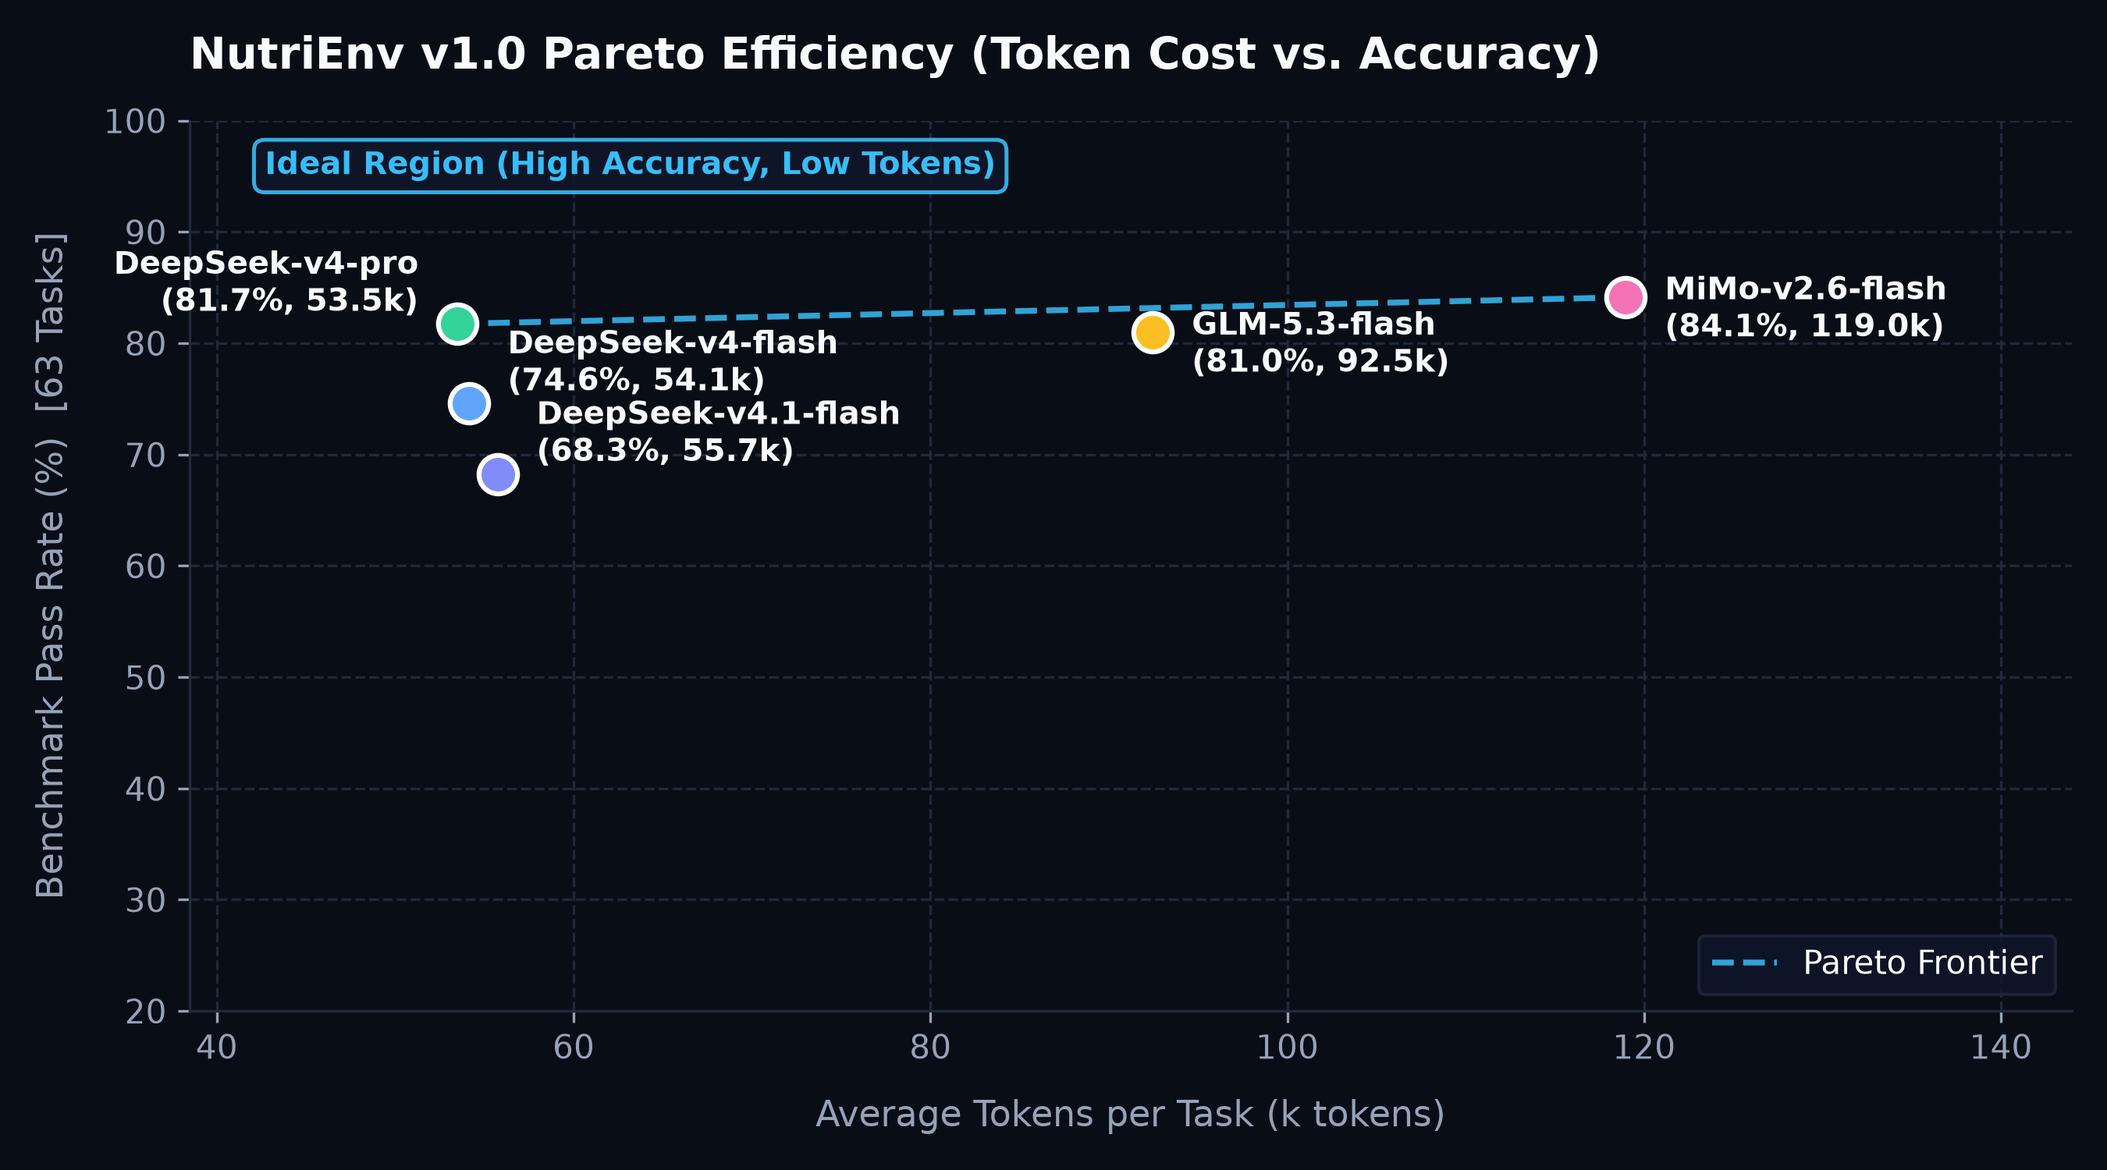
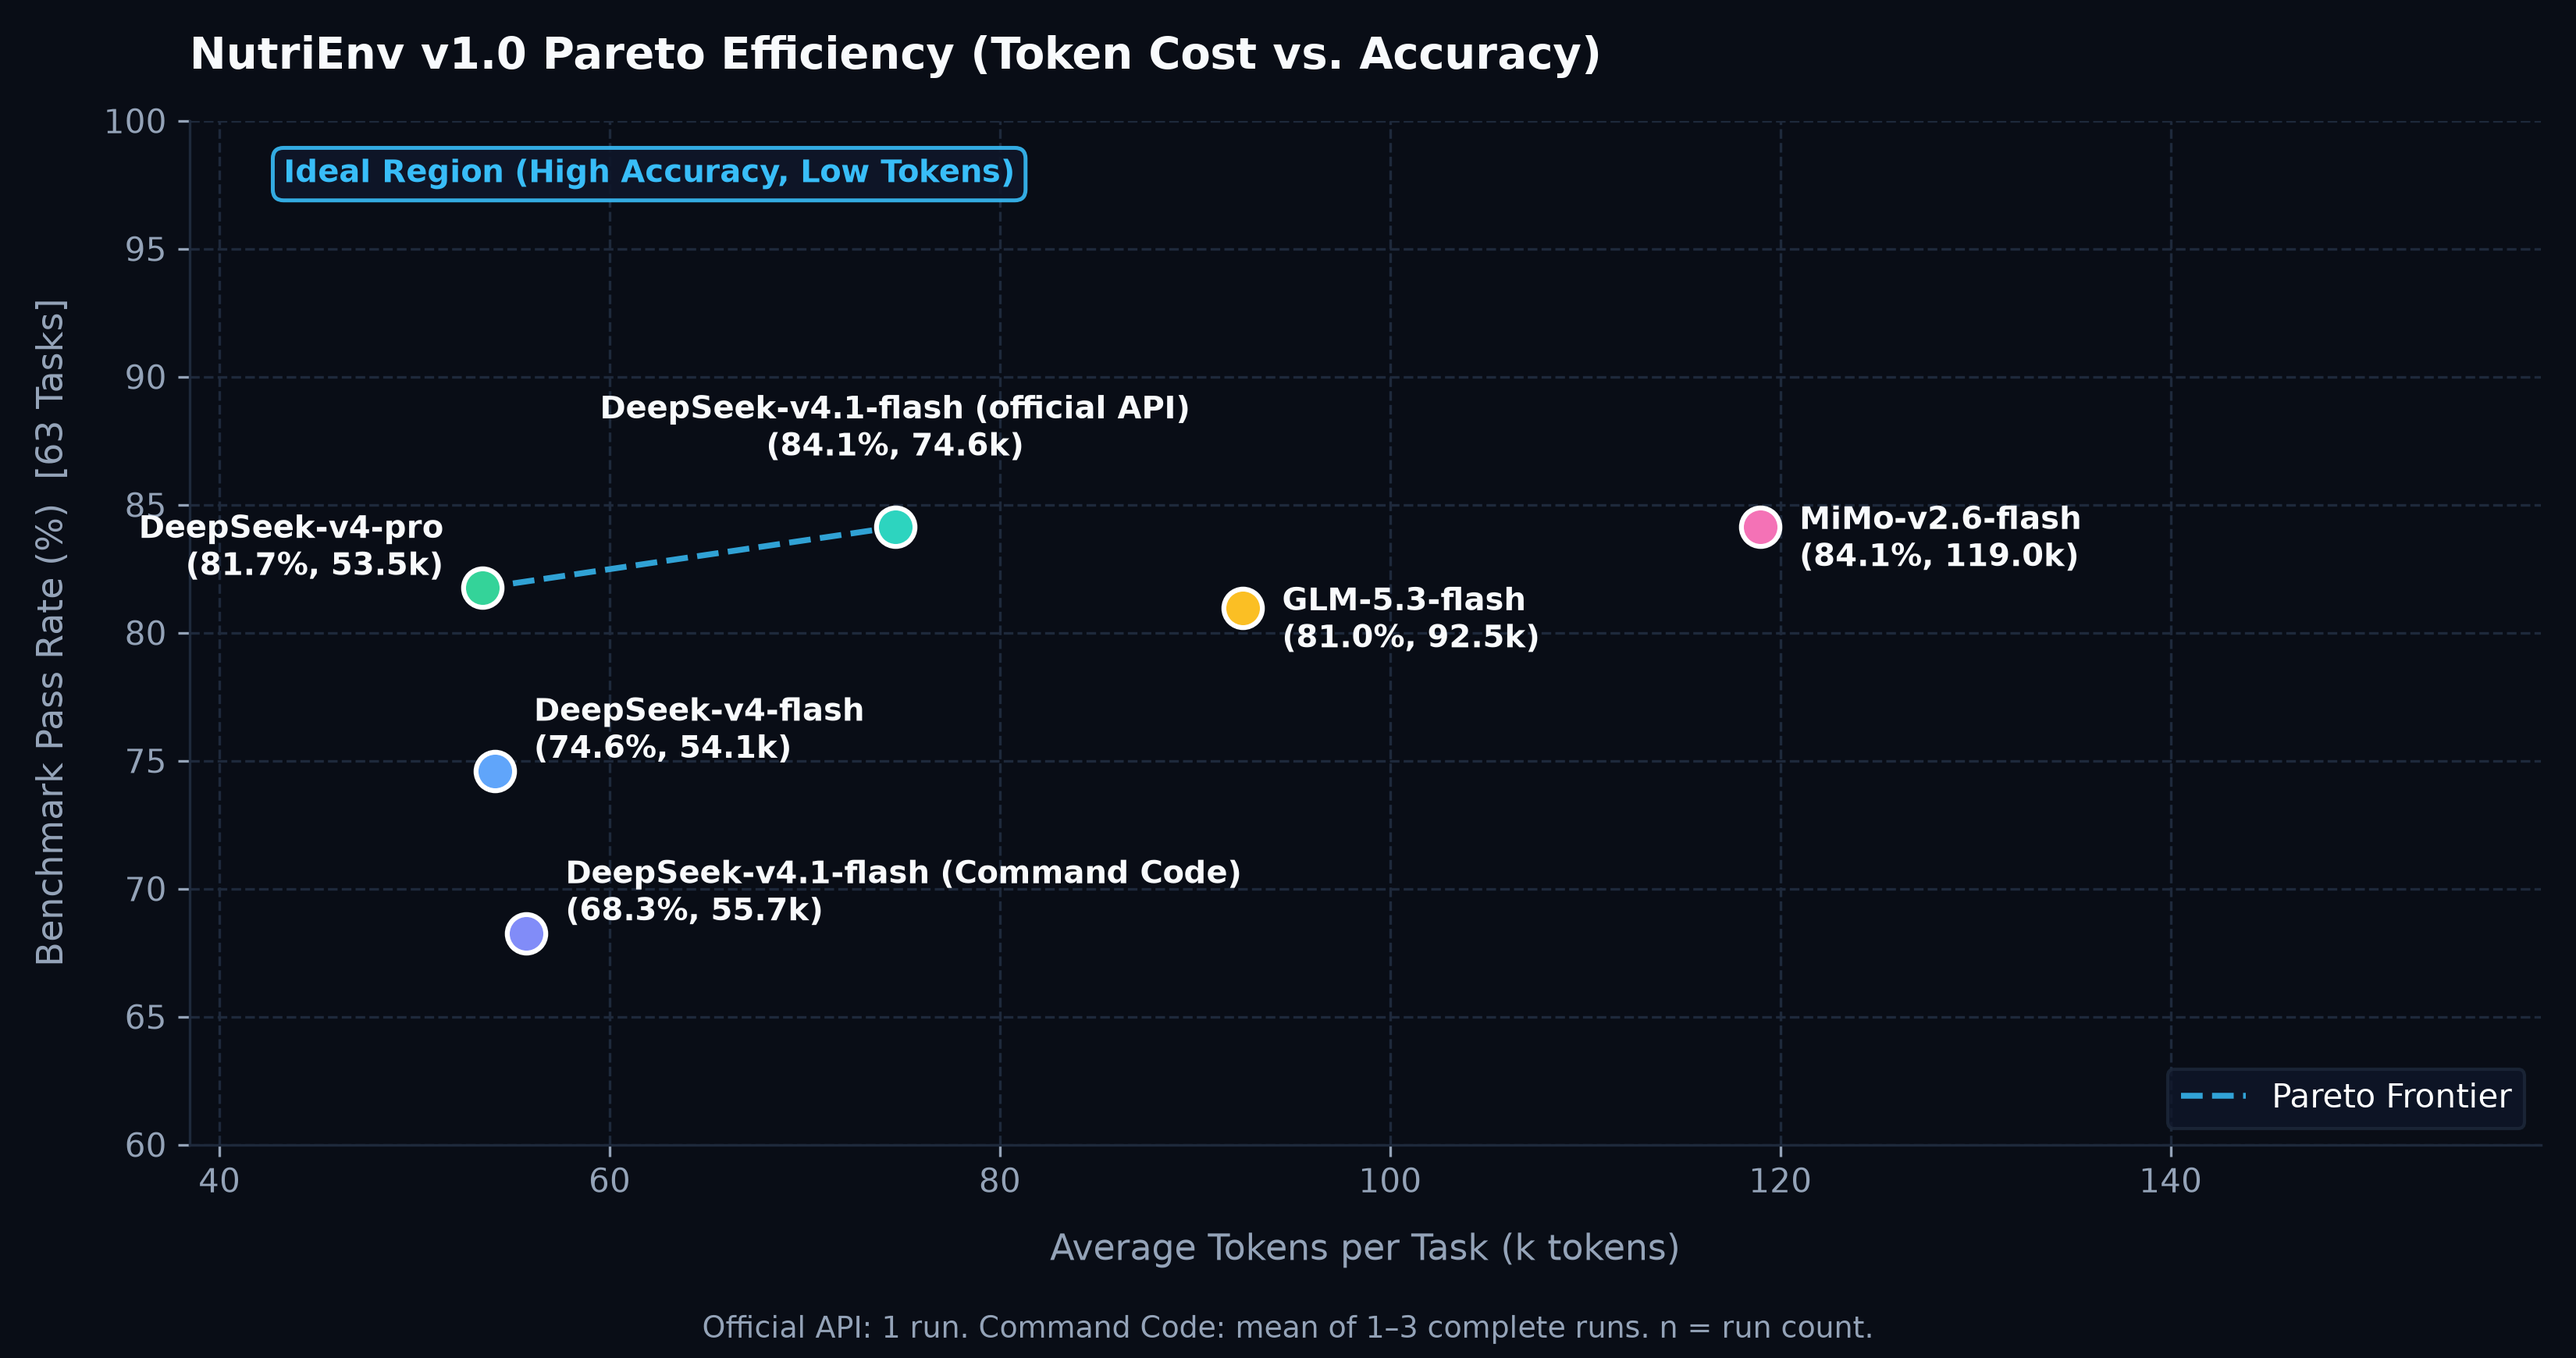
reports: include official DeepSeek Flash in leaderboard charts

diff --git a/scripts/render_benchmark_charts.py b/scripts/render_benchmark_charts.py
@@ -11,11 +11,12 @@ text_white = '#F8FAFC'
 text_muted = '#94A3B8'
 
 models = [
+    ('DeepSeek-v4.1-flash (official API)', 'reports/benchmark_deepseek_deepseek-flash_v1.0_fc_r*.json', '#2DD4BF'),
     ('DeepSeek-v4-pro', 'reports/benchmark_commandcode_deepseek-v4-pro_v1.0_fc_r*.json', '#34D399'),  # Emerald
     ('GLM-5.3-flash', 'reports/benchmark_commandcode_glm-5.3-flash_v1.0_fc_r*.json', '#FBBF24'),      # Amber
     ('MiMo-v2.6-flash', 'reports/benchmark_commandcode_mimo-v2.6-flash_v1.0_fc_r*.json', '#F472B6'),  # Pink
     ('DeepSeek-v4-flash', 'reports/benchmark_commandcode_deepseek-v4-flash_v1.0_fc_r*.json', '#60A5FA'),# Sky Blue
-    ('DeepSeek-v4.1-flash', 'reports/benchmark_commandcode_deepseek-v4.1-flash_v1.0_fc_r*.json', '#818CF8'),  # Indigo
+    ('DeepSeek-v4.1-flash (Command Code)', 'reports/benchmark_commandcode_deepseek-v4.1-flash_v1.0_fc_r*.json', '#818CF8'),  # Indigo
 ]
 
 def mean(xs):
@@ -26,6 +27,17 @@ def mean(xs):
 data = []
 for name, pattern, color in models:
     runs = [json.load(open(p)) for p in sorted(glob.glob(pattern))]
+    if not runs:
+        raise ValueError(f'No reports matched {pattern}')
+    for run in runs:
+        if run['total_tasks'] != 63 or len(run['tasks']) != 63 or run.get('void_count', 0):
+            raise ValueError(f'Incomplete run for {name}')
+        for key in ('split', 'contract', 'temperature', 'context_limit', 'parse_error_policy',
+                    'prompt_fingerprint', 'scorer_version', 'loop_version'):
+            if run[key] != runs[0][key] or (data and run[key] != reference[key]):
+                raise ValueError(f'Incompatible {key} for {name}')
+    if not data:
+        reference = runs[0]
     data.append({
         'name': name,
         'color': color,
@@ -44,20 +56,20 @@ for name, pattern, color in models:
 # ==========================================
 bar_data = sorted(data, key=lambda x: x['overall'], reverse=False) # bottom to top
 
-fig, ax = plt.subplots(figsize=(8.5, 3.8), dpi=300)
+fig, ax = plt.subplots(figsize=(11, 4.8), dpi=300)
 fig.patch.set_facecolor(fig_bg)
 ax.set_facecolor(fig_bg)
 
 y = np.arange(len(bar_data))
 height = 0.52
 
-bars = ax.barh(y, [m['overall'] for m in bar_data], height=height, 
+bars = ax.barh(y, [m['overall'] for m in bar_data], height=height,
                color=[m['color'] for m in bar_data], edgecolor='none', zorder=3)
 
 # Value annotations inside or outside the bar
 for bar, m in zip(bars, bar_data):
     w = bar.get_width()
-    ax.text(w + 1.2, bar.get_y() + bar.get_height() / 2, 
+    ax.text(w + 1.2, bar.get_y() + bar.get_height() / 2,
             f"{w:.1f}%  ({m['passed']:.1f}/{m['total']}, n={m['runs']})",
             va='center', ha='left', color=text_white, fontsize=10.5, fontweight='bold')
 
@@ -76,9 +88,11 @@ ax.spines['bottom'].set_color(grid_color)
 ax.tick_params(axis='x', colors=text_muted)
 ax.tick_params(axis='y', colors=text_white, length=0)
 
-plt.title('NutriEnv v1.0 Leaderboard (mean Pass@1)', 
+plt.title('NutriEnv v1.0 Leaderboard (mean Pass@1)',
           color=text_white, fontsize=13.5, fontweight='bold', pad=16, loc='left')
-plt.tight_layout()
+fig.text(0.5, 0.015, 'Official API: 1 run. Command Code: mean of 1–3 complete runs. n = run count.',
+         ha='center', color=text_muted, fontsize=9)
+plt.tight_layout(rect=(0, 0.04, 1, 1))
 plt.savefig('reports/assets/eval_leaderboard_bars.png', facecolor=fig_bg)
 plt.close()
 print('Pure model leaderboard bar chart saved to reports/assets/eval_leaderboard_bars.png')
@@ -86,7 +100,7 @@ print('Pure model leaderboard bar chart saved to reports/assets/eval_leaderboard
 # ==========================================
 # Chart 2: Pareto Efficiency Frontier (Tokens vs Pass Rate)
 # ==========================================
-fig, ax = plt.subplots(figsize=(9.0, 5.0), dpi=300)
+fig, ax = plt.subplots(figsize=(11, 5.8), dpi=300)
 fig.patch.set_facecolor(fig_bg)
 ax.set_facecolor(fig_bg)
 
@@ -100,7 +114,8 @@ offsets = {
     'GLM-5.3-flash': (12, -12, 'left'),
     'DeepSeek-v4-pro': (-12, 4, 'right'),
     'MiMo-v2.6-flash': (12, -12, 'left'),
-    'DeepSeek-v4.1-flash': (12, 4, 'left'),
+    'DeepSeek-v4.1-flash (Command Code)': (12, 4, 'left'),
+    'DeepSeek-v4.1-flash (official API)': (0, 22, 'center'),
 }
 
 for m in data:
@@ -132,7 +147,7 @@ py = [p['overall'] for p in pareto_points]
 
 ax.plot(px, py, color='#38BDF8', linestyle='--', linewidth=1.8, alpha=0.85, zorder=4, label='Pareto Frontier')
 
-ax.set_xlim(min(m['tokens_k'] for m in data) - 15, max(m['tokens_k'] for m in data) + 25)
+ax.set_xlim(min(m['tokens_k'] for m in data) - 15, max(m['tokens_k'] for m in data) + 40)
 ax.set_xlabel('Average Tokens per Task (k tokens)', color=text_muted, fontsize=11, labelpad=10)
 ax.set_ylabel('Benchmark Pass Rate (%)  [63 Tasks]', color=text_muted, fontsize=11, labelpad=10)
 
@@ -147,18 +162,19 @@ ax.tick_params(axis='x', colors=text_muted)
 ax.tick_params(axis='y', colors=text_muted)
 
 # Annotation for top-left ideal direction
-ax.annotate('Ideal Region (High Accuracy, Low Tokens)', 
+ax.annotate('Ideal Region (High Accuracy, Low Tokens)',
             xy=(0.04, 0.94), xycoords='axes fraction',
             color='#38BDF8', fontsize=9.5, fontweight='bold',
             bbox=dict(boxstyle="round,pad=0.35", fc=panel_bg, ec='#38BDF8', lw=1.2, alpha=0.9))
 
-ax.set_ylim(20, 100)
+ax.set_ylim(60, 100)
 
-plt.title('NutriEnv v1.0 Pareto Efficiency (Token Cost vs. Accuracy)', 
+plt.title('NutriEnv v1.0 Pareto Efficiency (Token Cost vs. Accuracy)',
           color=text_white, fontsize=13.5, fontweight='bold', pad=16, loc='left')
 plt.legend(loc='lower right', facecolor=panel_bg, edgecolor=grid_color, fontsize=10)
-plt.tight_layout()
+fig.text(0.5, 0.015, 'Official API: 1 run. Command Code: mean of 1–3 complete runs. n = run count.',
+         ha='center', color=text_muted, fontsize=9)
+plt.tight_layout(rect=(0, 0.04, 1, 1))
 plt.savefig('reports/assets/eval_pareto_efficiency.png', facecolor=fig_bg)
 plt.close()
 print('Pareto efficiency chart saved to reports/assets/eval_pareto_efficiency.png')
-

diff --git a/README.md b/README.md
@@ -39,7 +39,7 @@ The official API row is one complete run through `https://api.deepseek.com/v1/ch
 using API model ID `deepseek-flash`, with the same split, prompt fingerprint, scorer,
 loop, temperature and serial native-tool protocol as the Command Code rows.
 [Full official API report](./reports/benchmark_deepseek_deepseek-flash_v1.0_fc_r1.json). Its 53/63 equals MiMo's two-run mean;
-run counts differ. Other rows use Command Code. The charts show the Command Code runs only.
+run counts differ. Other rows use Command Code. The charts include both API routes and use the same complete-run means as this table.
 
 > **Protocol.** `data/splits/nutrienv-v1.0.json` (63 tasks), native function calling
 > (`--contract native-tools`, the default), temperature 0; provider routes are distinguished above.

diff --git a/reports/README.md b/reports/README.md
@@ -32,7 +32,7 @@ The official API row is one complete run through `https://api.deepseek.com/v1/ch
 using API model ID `deepseek-flash`, with the same split, prompt fingerprint, scorer,
 loop, temperature and serial native-tool protocol as the Command Code rows.
 [Full official API report](./benchmark_deepseek_deepseek-flash_v1.0_fc_r1.json). Its 53/63 equals MiMo's two-run mean;
-run counts differ. Other rows use Command Code. The charts show the Command Code runs only.
+run counts differ. Other rows use Command Code. The charts include both API routes and use the same complete-run means as this table.
 
 > **Note**: temperature 0; provider routes are distinguished above. Family columns pool each
 > model's complete runs. Each report records the ruler it was measured with (`contract`,
